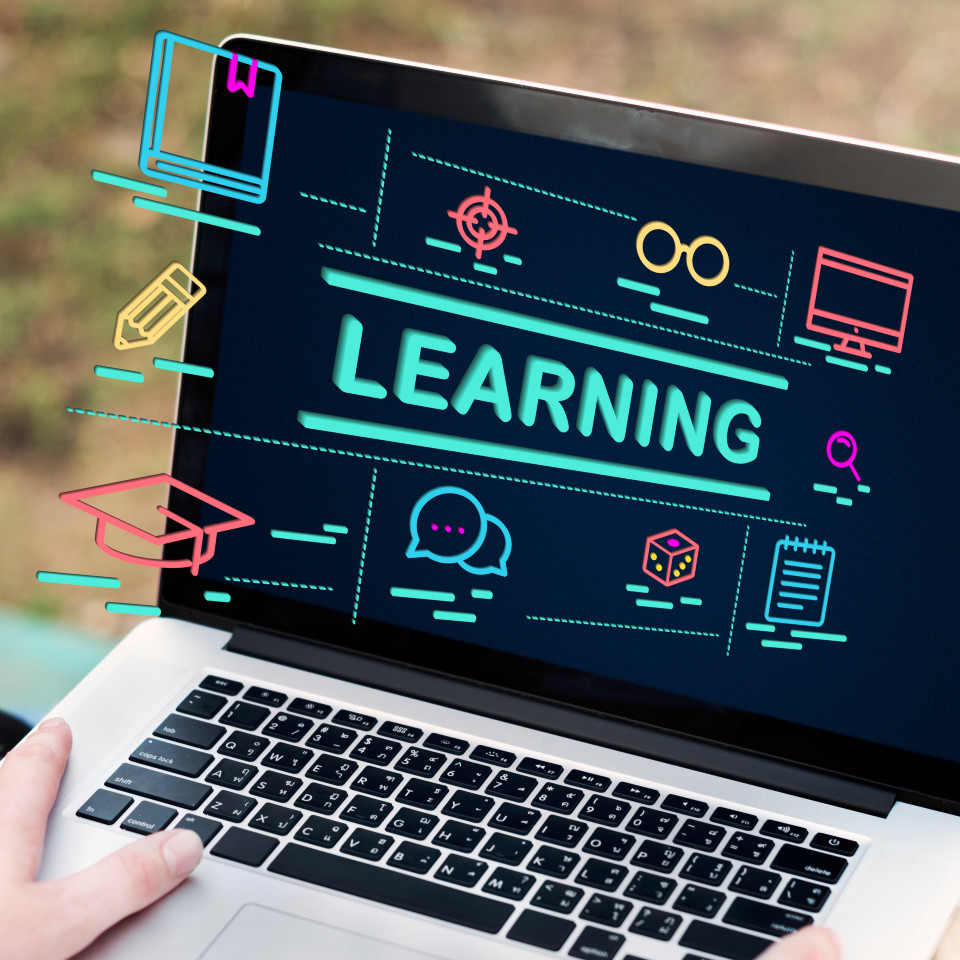
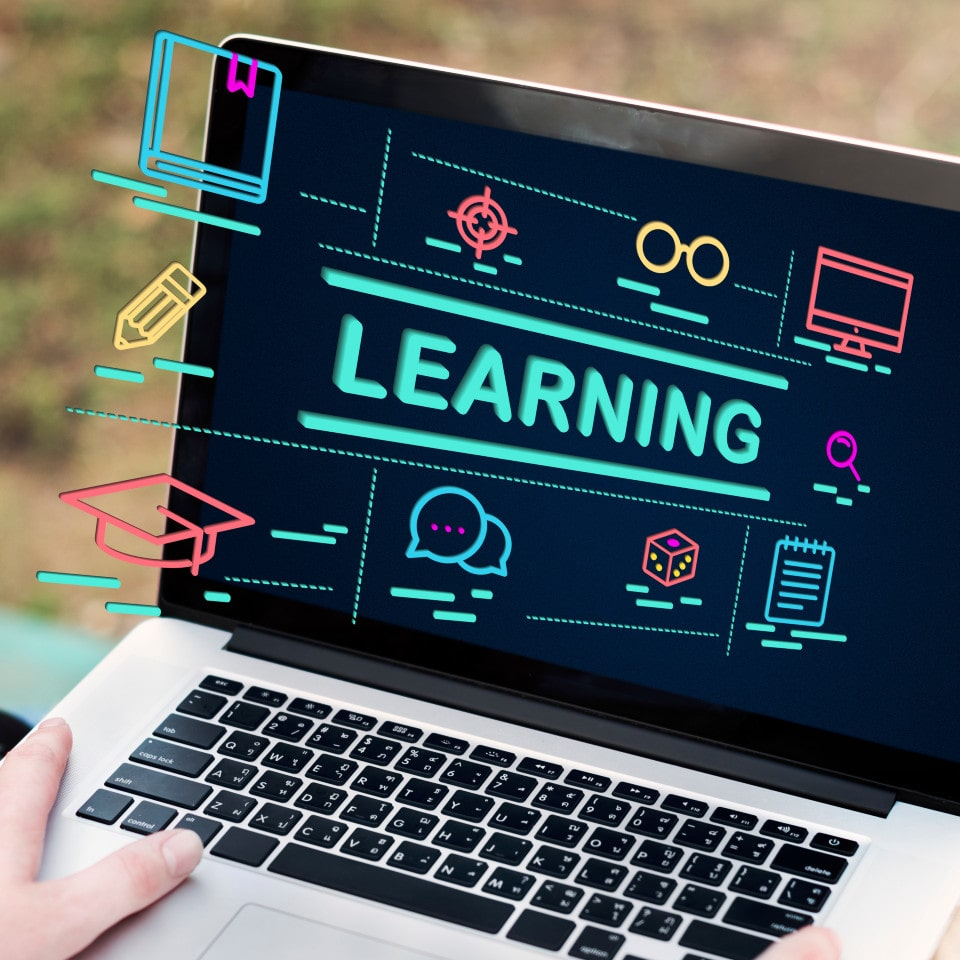
Images optimized

diff --git a/client/src/layouts/DefaultLayout.tsx b/client/src/layouts/DefaultLayout.tsx
@@ -8,7 +8,7 @@ export default function DefaultLayout({ children, title }: any) {
       <Head>
         <title>{title}</title>
         <meta name="description" content="Generated by create next app" />
-        <link rel="icon" href="/favico.png" />
+        <link rel="icon" href="/favicon.png" />
       </Head>
       <SideBar>{children}</SideBar>
       <Footer />
